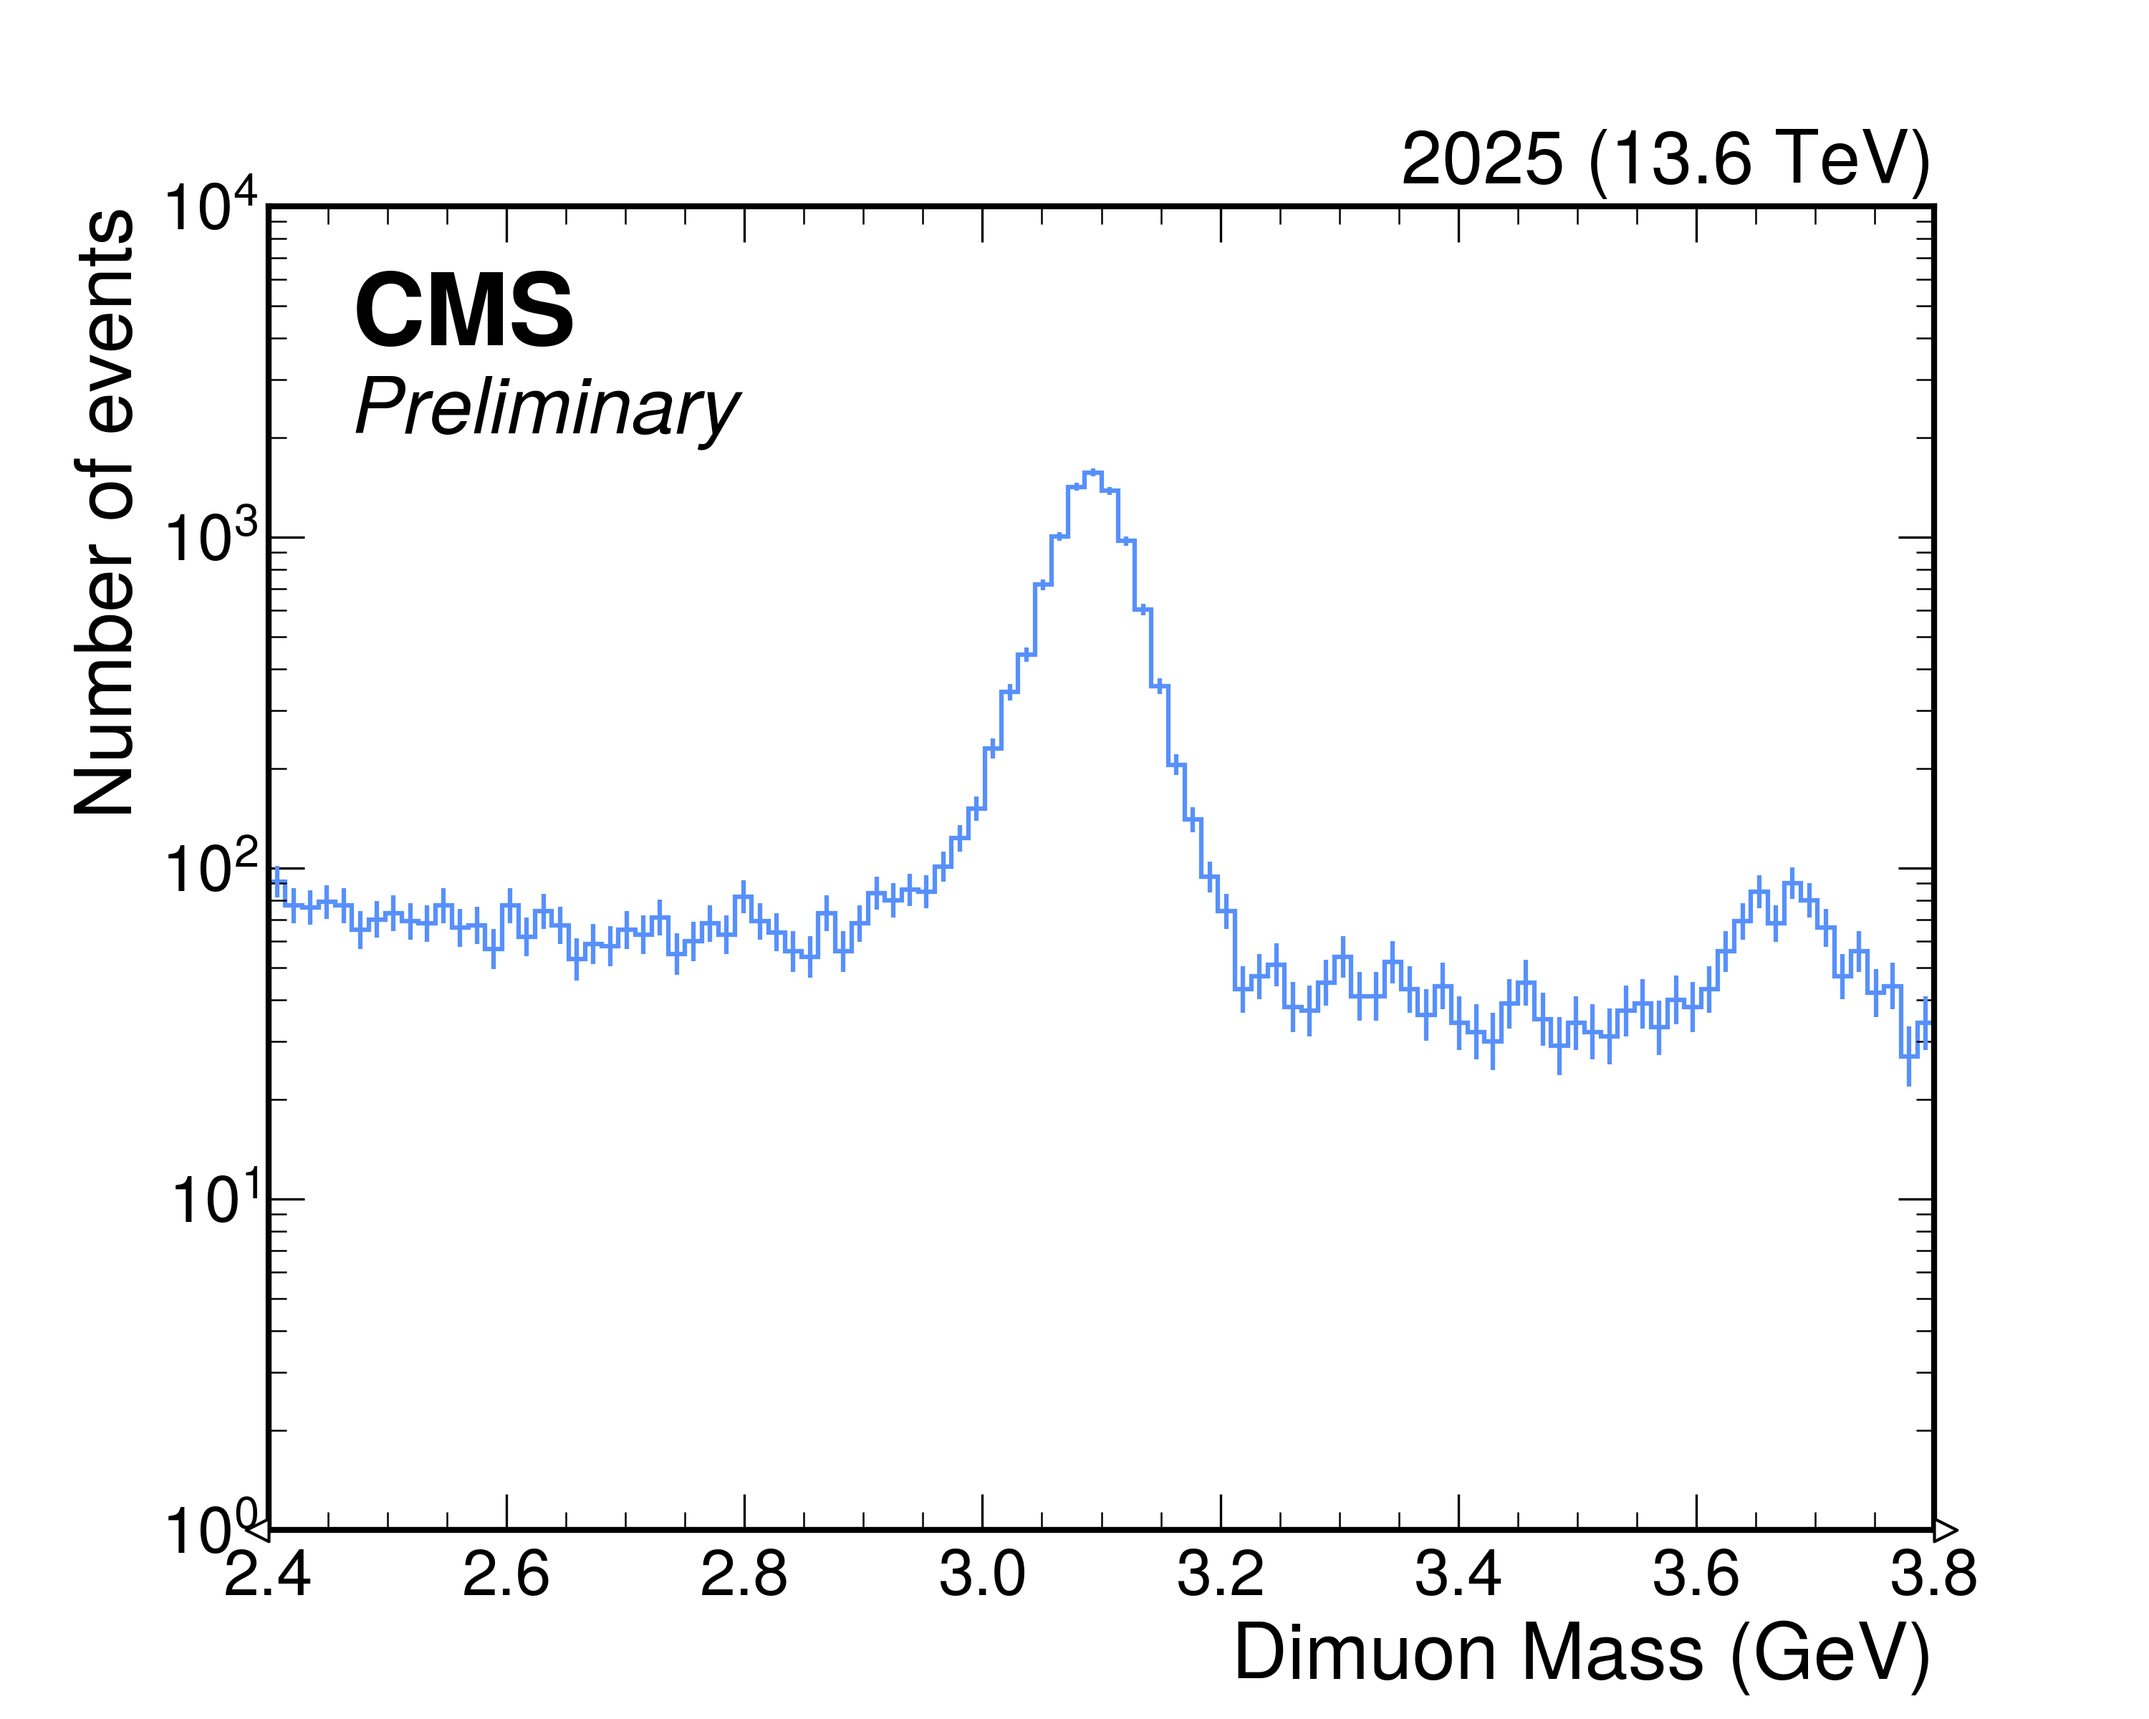
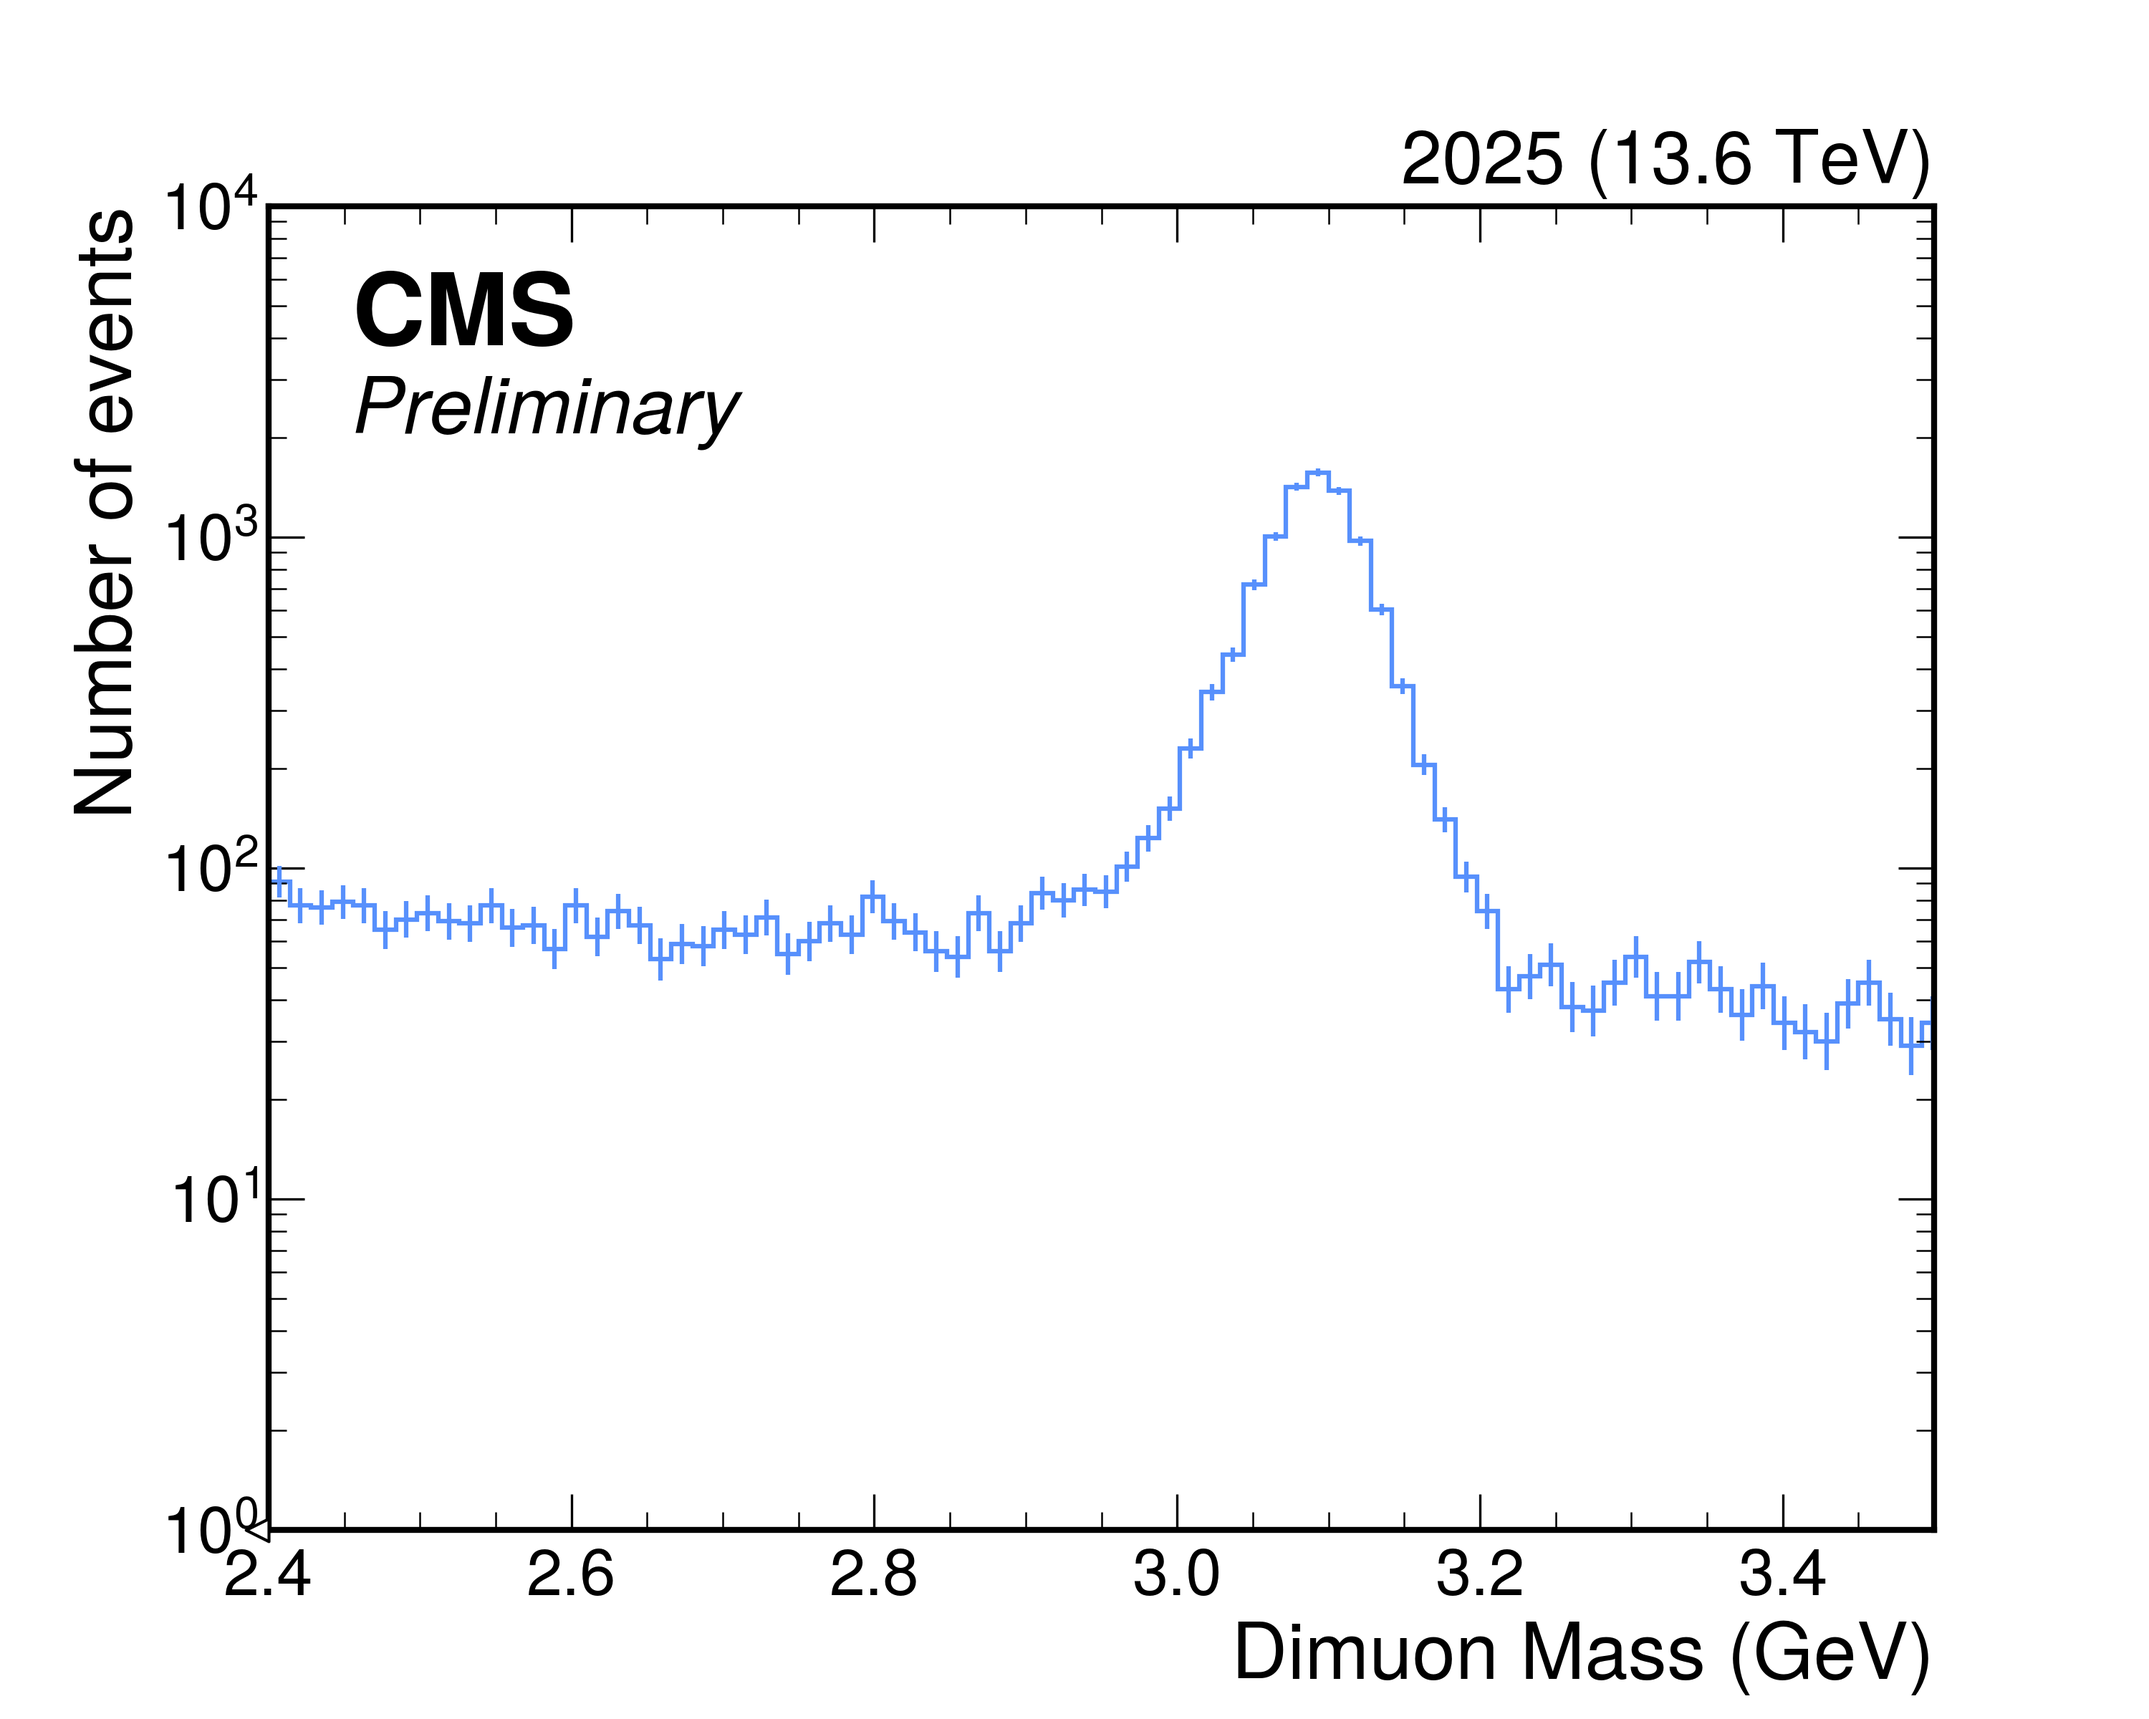
Modify range to exclude higher peak

diff --git a/make.py b/make.py
@@ -314,7 +314,9 @@ for i in tqdm(range(len(events))):
             invariant_mass = np.sqrt((E1 + E2)**2 - (px1 + px2)**2 - (py1 + py2)**2 - (pz1 + pz2)**2)
             h_mass.fill(mass=invariant_mass)
             # print("Invariant mass in GeV is ", invariant_mass)
-            if (invariant_mass >= 2.4 and invariant_mass < 3.0) or (invariant_mass > 3.2 and invariant_mass <= 3.8):
+
+            # ~3.7 potential psi(2S) charmonium peak
+            if (invariant_mass >= 2.4 and invariant_mass < 3.0) or (invariant_mass > 3.2 and invariant_mass <= 3.5):
                 h_lxy_sidebands.fill(lxy_sidebands=lxy)
             elif (invariant_mass >= 3.0 and invariant_mass <= 3.2):
                 h_lxy_peak.fill(lxy_peak=lxy)

diff --git a/draw.py b/draw.py
@@ -152,7 +152,7 @@ print("Plotting invariant mass")
 fig, ax = plt.subplots(figsize=(10,8))
 hep.cms.label("Preliminary", data=True, year='2025', com='13.6', ax=ax, loc=2)
 h_mass.plot(ax=ax)
-ax.set_xlim(2.4, 3.8)
+ax.set_xlim(2.4, 3.5)
 bin_values = h_mass.values()
 
 # nonzero bin values only because many bins are 0
